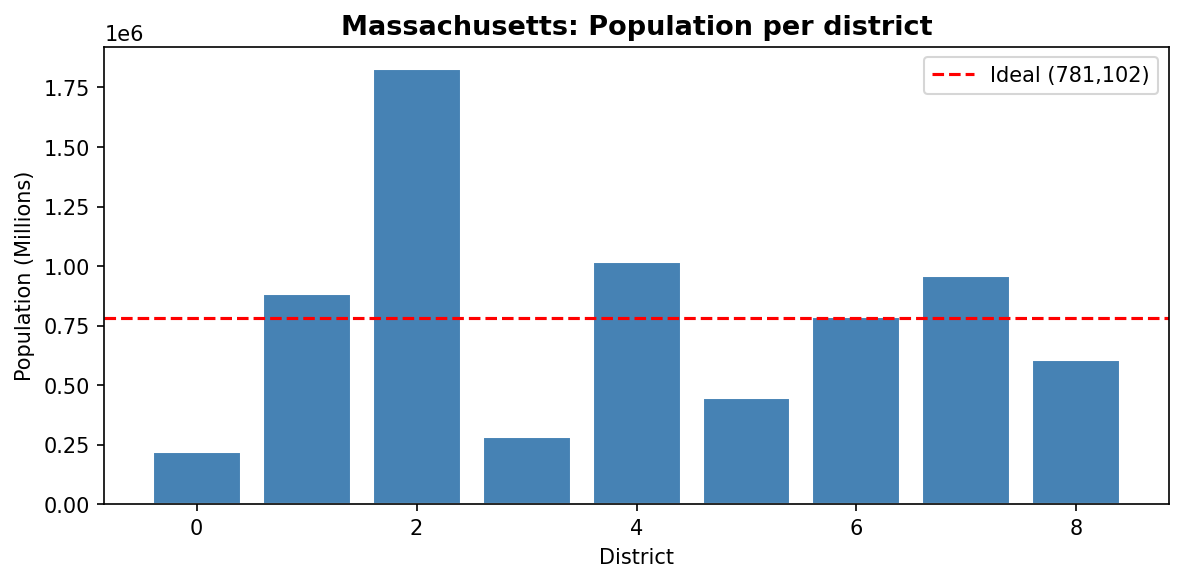
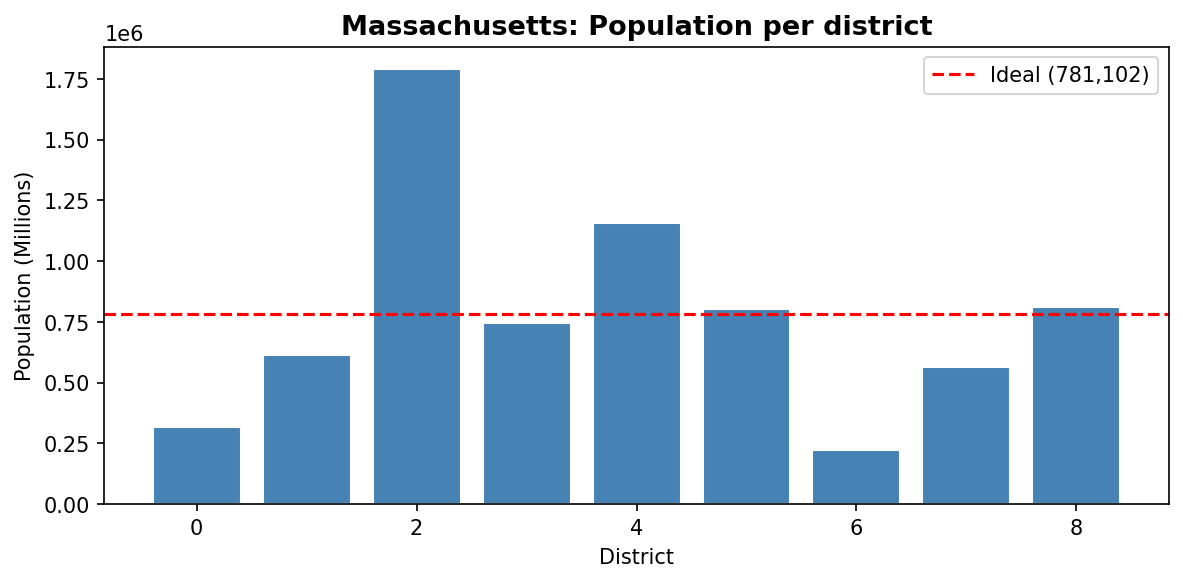
optimisation DONE omg

diff --git a/redistricting.py b/redistricting.py
@@ -206,50 +206,36 @@ def initialise(gdf, n):
     # [d1, d2, d2, d3 ...]
     # where track 0 is in d1, track 1 in d2 and so on
 
-# OPTIMISATION (blamk rn) =====
-# ── WEIGHTS (tune these) ──────────────────────────────────────────────
-# Higher COMPACT_WEIGHT  → districts look more like blobs, less population balance
-# Higher BALANCE_WEIGHT  → population more equal, districts may look jaggier
-# A good starting point is 3:1 compactness-to-balance for visual clarity
-COMPACT_WEIGHT = 3.0
-BALANCE_WEIGHT = 1.0
-# ─────────────────────────────────────────────────────────────────────
+p_balance_wt = 1.0
+contiguous_wt = 3.0
 
 def get_components(district_tracts, adj):
-    """Returns list of connected components for a set of tract indices."""
-    district_tracts = set(district_tracts)
-    visited = set()
-    components = []
+    district_tracts=set(district_tracts)
+    visited=set()
+    components=[]
     for start in district_tracts:
         if start in visited:
             continue
-        component = set()
-        queue = [start]
+        component=set()
+        queue=[start]
         while queue:
-            node = queue.pop()
+            node=queue.pop()
             if node in visited:
                 continue
             visited.add(node)
             component.add(node)
-            queue.extend(adj[node] & (district_tracts - visited))
+            queue.extend(adj[node]&(district_tracts-visited))
         components.append(component)
     return components
 
-
 def is_contiguous_after_removal(tract, district_id, labels, adj):
-    """Returns True if district_id stays connected when tract is removed."""
-    remaining = set(np.where(labels == district_id)[0]) - {tract}
+    remaining=set(np.where(labels == district_id)[0]) - {tract}
     if len(remaining) <= 1:
         return True
     return len(get_components(remaining, adj)) == 1
 
 
 def fix_all_contiguity(labels, adj, n):
-    """
-    Finds disconnected fragments within each district and absorbs them
-    into whichever neighbouring district is most common along the border.
-    Restarts from scratch after each reassignment (labels are stale after any change).
-    """
     labels = labels.copy()
     changed = True
     while changed:
@@ -259,7 +245,6 @@ def fix_all_contiguity(labels, adj, n):
             components = get_components(district_tracts, adj)
             if len(components) <= 1:
                 continue
-            # keep the biggest chunk, reassign everything else
             largest = max(components, key=len)
             for component in components:
                 if component is largest:
@@ -269,101 +254,164 @@ def fix_all_contiguity(labels, adj, n):
                     if neighbor_labels:
                         labels[tract] = max(set(neighbor_labels), key=neighbor_labels.count)
                         changed = True
-                break  # break after one fragment — restart with fresh labels
+                break
     return labels
 
+# ── WEIGHT OPTIMISATION ───────────────────────────────────────────────────────
 
-def optimise(labels, gdf, adj, n):
+def score_labels(labels, gdf, adj, n):
+    """
+    Scores a labelling on both objectives. Lower is better for both.
+    
+    compactness_score = average distance of each tract from its district's centroid
+                        (lower = more blob-like districts)
+    
+    balance_score     = coefficient of variation of district populations
+                        (lower = more equal populations, 0 = perfect)
+    """
+    population = gdf["population"].values
+    centroids  = np.column_stack([gdf.geometry.centroid.x, gdf.geometry.centroid.y])
+
+    # compactness: mean distance to district centroid
+    total_dist = 0.0
+    for d in range(n):
+        members = np.where(labels == d)[0]
+        if len(members) == 0:
+            continue
+        w = population[members]
+        centre = np.average(centroids[members], axis=0, weights=w)
+        total_dist += np.sum(np.linalg.norm(centroids[members] - centre, axis=1))
+    compactness_score = total_dist / len(labels)   # avg metres from centre
+
+    # balance: coefficient of variation of district populations (std/mean)
+    district_pops = np.array([population[labels == d].sum() for d in range(n)])
+    balance_score = district_pops.std() / district_pops.mean()  # 0 = perfect
+
+    return compactness_score, balance_score
+
+
+def find_optimal_weights(gdf, adj, n, labels_init):
+    """
+    Grid searches over (COMPACT_WEIGHT, BALANCE_WEIGHT) pairs and returns
+    the best combo — defined as the one with the lowest combined normalised score.
+    
+    We try a coarse grid first (fast), then zoom into the best region (fine).
+    """
+    # coarse grid — 9 combinations
+    coarse_grid = [
+        (cw, bw)
+        for cw in [1.0, 3.0, 5.0]
+        for bw in [1.0, 3.0, 5.0]
+    ]
+
+    print("    Weight search: coarse grid...")
+    coarse_results = []
+    for cw, bw in coarse_grid:
+        lbl = optimise(labels_init.copy(), gdf, adj, n, compact_wt=cw, balance_wt=bw)
+        cs, bs = score_labels(lbl, gdf, adj, n)
+        coarse_results.append((cw, bw, cs, bs, lbl))
+        print(f"      CW={cw:.1f} BW={bw:.1f}  →  compactness={cs:,.0f}m  balance={bs:.4f}")
+
+    # normalise both scores to [0,1] so they're comparable
+    all_cs = [r[2] for r in coarse_results]
+    all_bs = [r[3] for r in coarse_results]
+    cs_min, cs_max = min(all_cs), max(all_cs)
+    bs_min, bs_max = min(all_bs), max(all_bs)
+
+    def combined(cs, bs):
+        # equal weight between the two objectives when picking the winner
+        norm_cs = (cs - cs_min) / (cs_max - cs_min + 1e-9)
+        norm_bs = (bs - bs_min) / (bs_max - bs_min + 1e-9)
+        return norm_cs + norm_bs
+
+    coarse_results.sort(key=lambda r: combined(r[2], r[3]))
+    best_cw, best_bw = coarse_results[0][0], coarse_results[0][1]
+    print(f"    Best coarse: CW={best_cw} BW={best_bw}")
+
+    # fine grid — zoom in around the best coarse point
+    step = 1.0
+    fine_grid = [
+        (max(0.5, best_cw + dcw), max(0.5, best_bw + dbw))
+        for dcw in [-step, 0, step]
+        for dbw in [-step, 0, step]
+        if (dcw, dbw) != (0, 0)   # already ran the centre point
+    ]
+    fine_grid = list(set(fine_grid))  # deduplicate
+
+    print("    Weight search: fine grid...")
+    fine_results = list(coarse_results)  # include coarse results so centre isn't lost
+    for cw, bw in fine_grid:
+        lbl = optimise(labels_init.copy(), gdf, adj, n, compact_wt=cw, balance_wt=bw)
+        cs, bs = score_labels(lbl, gdf, adj, n)
+        fine_results.append((cw, bw, cs, bs, lbl))
+        print(f"      CW={cw:.1f} BW={bw:.1f}  →  compactness={cs:,.0f}m  balance={bs:.4f}")
+
+    # re-normalise over all results and pick winner
+    all_cs = [r[2] for r in fine_results]
+    all_bs = [r[3] for r in fine_results]
+    cs_min, cs_max = min(all_cs), max(all_cs)
+    bs_min, bs_max = min(all_bs), max(all_bs)
+    fine_results.sort(key=lambda r: combined(r[2], r[3]))
+
+    best_cw, best_bw, best_cs, best_bs, best_labels = fine_results[0]
+    print(f"    ✓ Optimal weights: CW={best_cw} BW={best_bw}  "
+          f"(compactness={best_cs:,.0f}m, balance={best_bs:.4f})")
+    return best_cw, best_bw, best_labels
+
+
+def optimise(labels, gdf, adj, n, compact_wt=3.0, balance_wt=1.0):
     labels = labels.copy()
     population = gdf["population"].values
     ideal      = population.sum() / n
-
-    # precompute tract centroids once (units: metres, epsg:5070)
-    centroids = np.column_stack([gdf.geometry.centroid.x, gdf.geometry.centroid.y])
+    centroids  = np.column_stack([gdf.geometry.centroid.x, gdf.geometry.centroid.y])
 
     def district_centroid(d):
-        """Population-weighted centroid of district d."""
         members = np.where(labels == d)[0]
         w = population[members]
         return np.average(centroids[members], axis=0, weights=w)
 
-    # ── PHASE 1: fix contiguity before anything else ──────────────────
-    print("    Phase 1: fixing contiguity...")
     labels = fix_all_contiguity(labels, adj, n)
 
-    # ── PHASE 2: scored swaps ─────────────────────────────────────────
-    # Each candidate move is scored on two normalised dimensions:
-    #
-    #   compactness score  = (dist from tract to current district centre)
-    #                      - (dist from tract to target district centre)
-    #                      → positive means the tract is geographically
-    #                        closer to the target (good move)
-    #
-    #   balance score      = reduction in sum-of-squared deviation from ideal
-    #                      → positive means population becomes more equal
-    #
-    # final score = COMPACT_WEIGHT * compactness + BALANCE_WEIGHT * balance
-    # (both are normalised so the weights are meaningful and comparable)
-    #
-    # a move only happens if final score > 0
-    print("    Phase 2: scored swaps (compactness + balance)...")
-
-    # normalisation constants — computed once from the initial state
-    # compactness: typical distance between district centres
-    # balance: typical population-squared deviation
-    all_centres   = np.array([district_centroid(d) for d in range(n)])
-    typical_dist  = np.mean([np.linalg.norm(all_centres[i] - all_centres[j])
-                             for i in range(n) for j in range(i+1, n)])
-    typical_dev   = (population.sum() / n) ** 2  # roughly one ideal²
+    all_centres  = np.array([district_centroid(d) for d in range(n)])
+    typical_dist = np.mean([np.linalg.norm(all_centres[i] - all_centres[j])
+                            for i in range(n) for j in range(i+1, n)])
+    typical_dev  = (population.sum() / n) ** 2
 
     improved = True
     passes   = 0
     while improved and passes < 50:
         improved = False
         passes  += 1
-
         tract_order = list(range(len(labels)))
-        rng.shuffle(tract_order)   # random order avoids directional bias
+        rng.shuffle(tract_order)
 
         for i in tract_order:
             current = labels[i]
-
-            # only border tracts are candidates
             neighbor_districts = {labels[j] for j in adj[i] if labels[j] != current}
             if not neighbor_districts:
                 continue
-
-            # skip if this tract is an articulation point (its removal splits district)
             if not is_contiguous_after_removal(i, current, labels, adj):
                 continue
 
-            current_pop    = population[labels == current].sum()
-            cur_centre     = district_centroid(current)
+            current_pop     = population[labels == current].sum()
+            cur_centre      = district_centroid(current)
             dist_to_current = np.linalg.norm(centroids[i] - cur_centre)
-
-            best_score  = 0.0   # only accept strictly positive scores
-            best_target = None
+            best_score      = 0.0
+            best_target     = None
 
             for target in neighbor_districts:
-                target_pop = population[labels == target].sum()
-                tgt_centre = district_centroid(target)
-
-                # ── compactness component ──────────────────────────────
+                target_pop     = population[labels == target].sum()
+                tgt_centre     = district_centroid(target)
                 dist_to_target = np.linalg.norm(centroids[i] - tgt_centre)
-                # positive = tract is closer to target than to current = good
-                compact_raw = dist_to_current - dist_to_target
-                compact_score = compact_raw / typical_dist   # normalised
 
-                # ── balance component ──────────────────────────────────
-                before = (current_pop - ideal)**2 + (target_pop - ideal)**2
-                after  = ((current_pop - population[i]) - ideal)**2 + \
-                         ((target_pop  + population[i]) - ideal)**2
-                balance_raw   = before - after               # positive = better balance
-                balance_score = balance_raw / typical_dev    # normalised
+                compact_score = (dist_to_current - dist_to_target) / typical_dist
 
-                # ── combined score ─────────────────────────────────────
-                score = COMPACT_WEIGHT * compact_score + BALANCE_WEIGHT * balance_score
+                before        = (current_pop - ideal)**2 + (target_pop - ideal)**2
+                after         = ((current_pop - population[i]) - ideal)**2 + \
+                                ((target_pop  + population[i]) - ideal)**2
+                balance_score = (before - after) / typical_dev
 
+                score = compact_wt * compact_score + balance_wt * balance_score
                 if score > best_score:
                     best_score  = score
                     best_target = target
@@ -372,11 +420,10 @@ def optimise(labels, gdf, adj, n):
                 labels[i] = best_target
                 improved   = True
 
-        # repair any contiguity broken by swaps before the next pass
         labels = fix_all_contiguity(labels, adj, n)
 
-    print(f"    Done in {passes} passes.")
     return labels
+
 # VISUALISATION :D (for now just the redistricted map) ======
 
 # this is just a function to plot the state with the new districts (after optimising)
@@ -502,17 +549,19 @@ def plot_population_balance(state, gdf, labels, n):
 
 if __name__ == "__main__":
     for state, cfg in STATES.items():
-        print(f"\n{'='*50}\n{state.upper()}\n{'='*50}") # to make a cool header for each state
-        n = cfg["n_districts"] # go up to the config to understand this (very self explainatory)
+        print(f"\n{'='*50}\n{state.upper()}\n{'='*50}")
+        n = cfg["n_districts"]
 
-        gdf, adj = running(state, cfg)
-        labels = initialise(gdf, n)
-        labels = optimise(labels, gdf, adj, n)
-        plot_state(state, gdf, labels, n) # so like, after the optimisation fn is filled in the plots i made will reflect it :D
+        gdf, adj   = running(state, cfg)
+        labels_init = initialise(gdf, n)
+
+        print("  Finding optimal weights...")
+        best_cw, best_bw, labels = find_optimal_weights(gdf, adj, n, labels_init)
+        print(f"  Using CW={best_cw}, BW={best_bw} for {state}")
+
+        plot_state(state, gdf, labels, n)
         plot_vote_share(state, gdf, labels, n)
         plot_seat_comparison(state, gdf, labels, n)
         plot_population_balance(state, gdf, labels, n)
-        
 
         print(f"{state} Done.")
-
